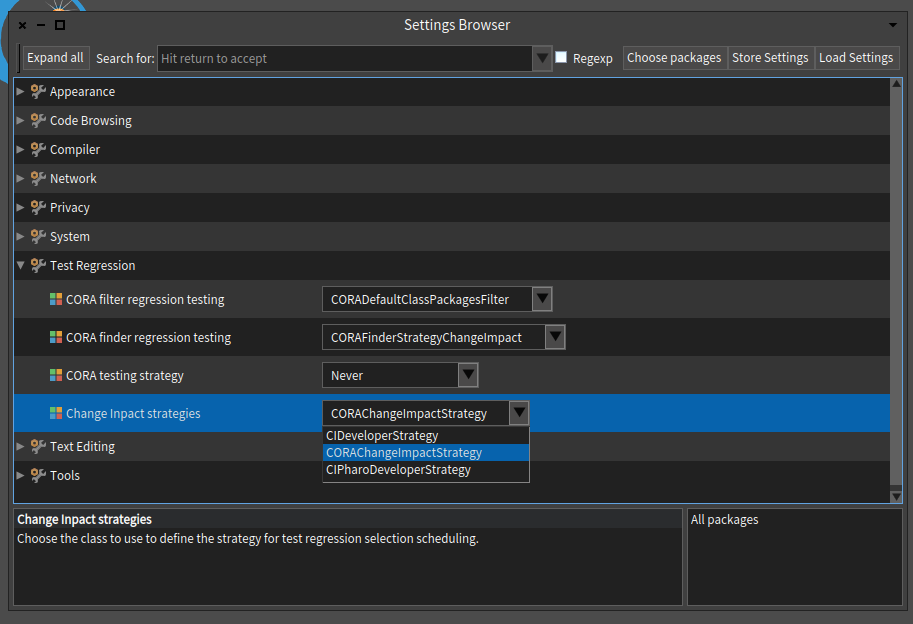
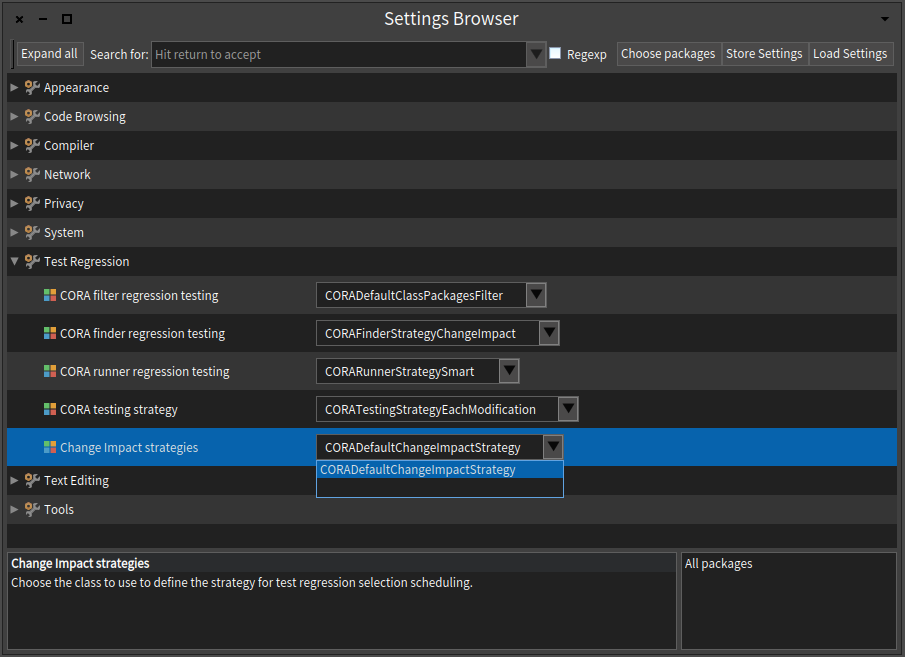
First update CORA need runner part

Changed region(s): [[0.0, 0.0, 1.0, 1.0]]

diff --git a/_posts/2017-07-05-CORA.md b/_posts/2017-07-05-CORA.md
@@ -41,6 +41,24 @@ Metacello new
     load.
 ```
 
+### Help us
+
+I'm also working on test usage habit. If you'd like to use CORA and in the same time help us ( because it's awesome ;) ).
+Please use this command :
+
+
+```st
+Metacello new
+    smalltalkhubUser: 'badetitou' project: 'TestsUsageAnalyser-CoraExtends';
+    configuration: 'TestsUsageAnalyser_CORAExtends';
+    version: #stable;
+    get;
+    load.
+```
+
+It will install a spy that will record data for analysis (No data divulgation, don't worry) and CORA for Nautilus.
+If you'd like Calypso and help us, use this command and the second command.
+
 ## Utilisation
 
 Once you install CORA, it is auto-activated (it can take a few seconds but you will not notice them).
@@ -88,23 +106,27 @@ By clicking on the "Run all test" button, you will run all the tests displays in
 
 Many options are available to custom your experience with CORA.
 You should read this part to use CORA at the maximum of its possibilities.
+You can extend each option and so create your own experience.
 
 ### Testing strategy
 
 {% include image.html
             img="/img/CORA/Testing_strategy.png"
-            title="Testing_strategy"
+            title="testing"
 %}
 
-CORA provides (by default), four strategies for testing.
+CORA provides four strategies for testing.
 
 - *Never* will only display the button as describe previously.
 - *Always* will execute all the test CORA finds as soon as it'll find the tests.
+If you change a method A then select a method B before end the research of relative tests, CORA will continue to search and run the tests as soon as it finds them.
 - *Every 5 Minutes* will collect the tests CORA find during a duration of 5 minutes.
 Then CORA will run the tests and, if a test fails, CORA will display a window with the test suite it ran.
 - *Each modification* will run the tests CORA find each time you modify your code.
+This is the default strategy.
+As for always strategy, if you change a method A then select a method B before end the research of relative tests, CORA will continue to search and run the tests as soon as it finds them.
 
-You can **not** create your own strategy currently.
+You're able to extend *CORATestingStrategy* if you'd like to create your own testing strategy.
 
 ### Finder
 
@@ -115,11 +137,13 @@ You can **not** create your own strategy currently.
 
 The finder contains the implementation of how CORA will find test relative to a method.
 The default will work as follow, for
-- a method, it will use the current change impact strategy.
+- a method, it will use the current change impact strategy (see Change Impact strategy).
 - a class, it will search the method that use the variables of the class.
 - a test method, it will provide the test method
 - a setup, it will provide all the tests concerning by this setup
 - a teardown, it will provide all the tests concerning by this teardown
+
+You're able to extend *CIPackagesFilter* if you'd like to create your own strategy to filter tests.
 
 ### Filter
 
@@ -129,10 +153,12 @@ The default will work as follow, for
 %}
 
 Because we're using ChangeImpact.
-We can also define filter for the finder strategy to optimize our tool.
+You can also define filter for the finder strategy to optimize our tool.
 Currently we are filtering test relative to the method package.
-That include all the method in our package, the package with the same base name ("CORA-Patate" and "CORA-Frite-Poulet" are two packages with the same base name "Cora").
-And the package that call our method class ("MyClass>>#hello" is in the package A. In the package B, there is at least a method that calls "MyClass". So, the tests inside the package B are **not** rejected).
+That include all the class in our package, the package with the same base name ("CORA-Patate" and "CORA-Frite-Poulet" are two packages with the same base name "Cora").
+And the package that call our method class ("MyClass>>#hello" is in the package A. In the package B, there is at least a method that calls "MyClass". So, the methods inside the package B are **not** rejected).
+
+(working on schema)
 
 You're able to extend *CIPackagesFilter* if you'd like to create your own strategy to filter tests.
 
@@ -145,5 +171,15 @@ You're able to extend *CIPackagesFilter* if you'd like to create your own strate
 
 
 Currently, CORA uses Change Impact by [Julien Delplanque](https://juliendelplanque.be/) to explore the code.
+The implementation of CORA is simple.
+We simply research the senders of the method you select and the senders of the senders ...
+Each time, it verify that the senders are not filtered by the filter.
 
 You're able to extend *CIStrategy* if you'd like to create your own strategy to find tests.
+
+### Runner
+
+{% include image.html
+            img="/img/CORA/runner.png"
+            title="runner"
+%}
